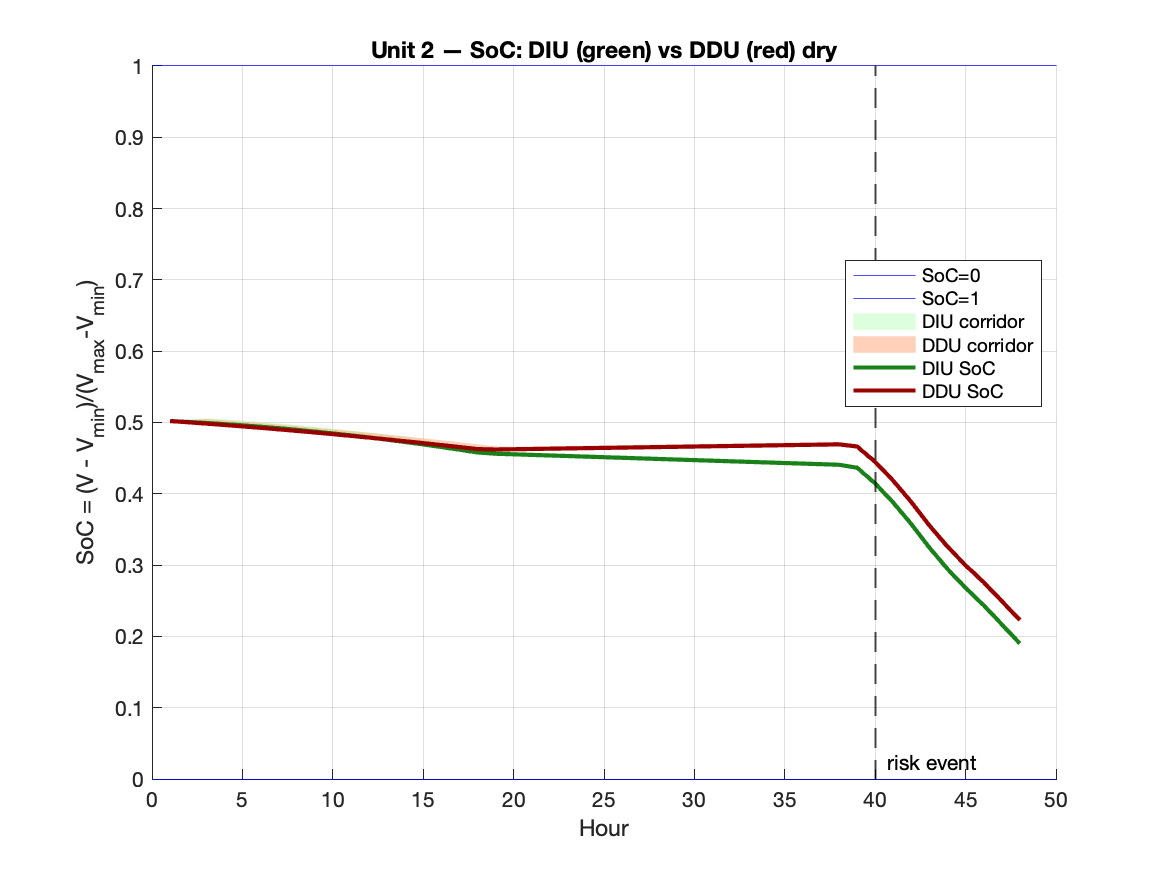
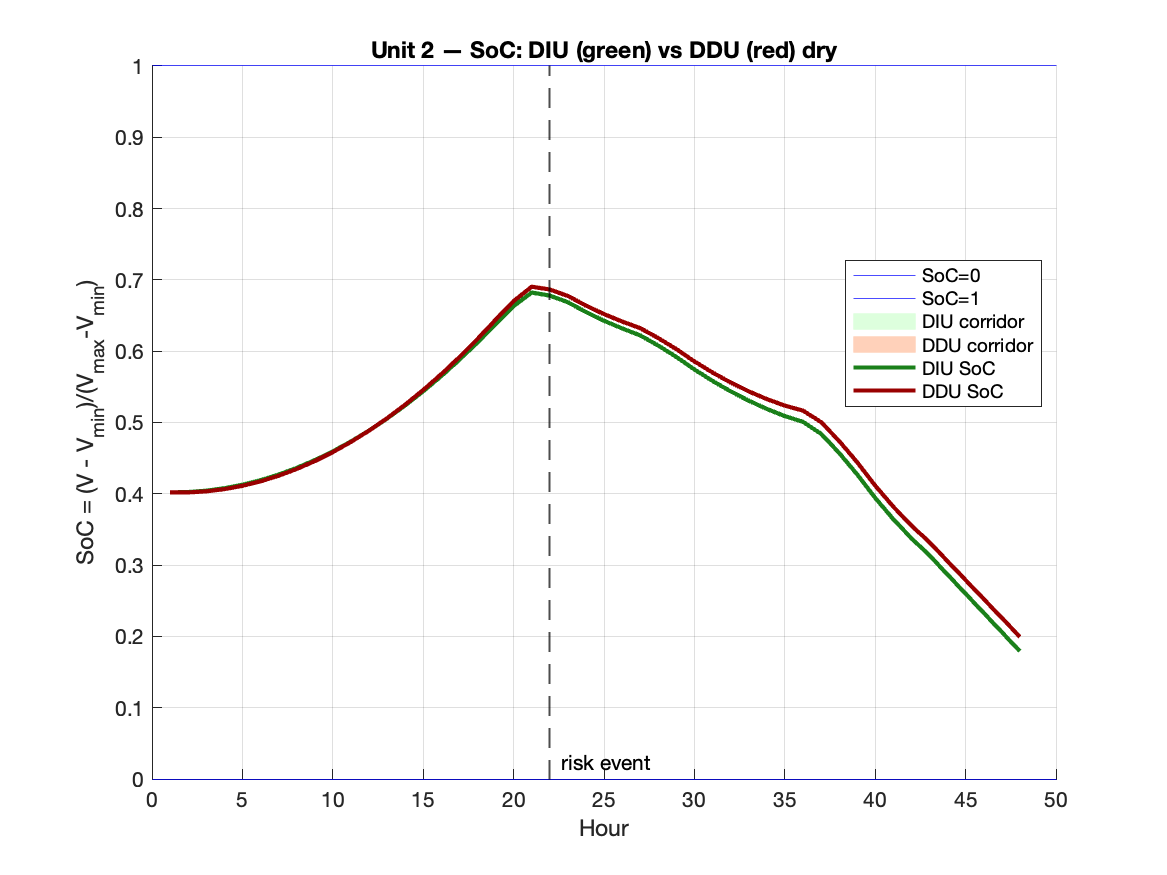
testing

diff --git a/synthetic-sim/simulation.m b/synthetic-sim/simulation.m
@@ -25,7 +25,7 @@ N = 20;             % number of sub-intervals for piecewise linear approx
 % ========================================================================
 
 % Initialize settings (season, linear approximation, uncertainty, bounds)
-simSettings = initSimSettings("dry", "pwl", "diu", "icc");
+simSettings = initSimSettings("dry", "pwl", "diu", "jcc-bon");
 
 % Extract forecasting coefficients 
 modelparams = modelparams(strcmp({modelparams.season}, simSettings.season));
@@ -49,8 +49,7 @@ inflow_s = inflow(inflow.datetime >= start_date & inflow.datetime <= end_date, :
 % q = [parabola_decay(inflow_s.bon_inflow_m3hr(1), T)]';
 
 q0 = inflow_s.bon_inflow_m3hr(1);      % your baseline level
-t0   = round(0.5*T) + lag;               % center pulse mid-horizon
-q = makeInflowPulse(q0, T, lag, 0.35, 0.6, 0.4, 2, 2);
+q = makeInflowPulse(q0, T, lag, [0.2 0.6], 0.20, 0.80, 2, 2);
 
 fprintf('Data loading complete.\n');
 
@@ -112,21 +111,21 @@ if simSettings.bounds == "jcc-ssh"
 end 
 
 
-function q = makeInflowPulse(q0, T, lag, t0, amp_up, amp_dn, w_up, w_dn)
-% makeInflowPulse  Create an upstream inflow pulse (q1) mid-horizon.
-% q0      : scalar baseline (m^3/hr) OR vector of length T+lag
-% T, lag  : horizon length and model lag (q must be length T+lag)
-% t0      : pulse location. If t0<1, interpreted as fraction of horizon (0..1);
-%           otherwise treated as absolute index in 1..T+lag.
-% amp_up  : fractional bump during expansion (e.g., 0.6 => +60%)
-% amp_dn  : fractional dip during contraction (e.g., 0.4 => −40%)
-% w_up    : width (hours) of expansion segment
-% w_dn    : width (hours) of contraction segment (immediately after)
+function q = makeInflowPulse(q0, T, lag, t0, amp1, amp2, w1, w2)
+% makeInflowPulse  Two positive pulses in q1 at arbitrary positions.
+% q0   : scalar baseline (m^3/hr) OR vector of length T+lag
+% T,lag: horizon & lag (output length = T+lag)
+% t0   : pulse positions:
+%        - if scalar <1: one pulse at fraction t0 of horizon
+%        - if scalar >=1: one pulse at absolute index
+%        - if 2-vector: two pulses; each entry may be fraction (<1) or index
+% amp1 : fractional bump for pulse #1 (e.g., 0.2 => +20%)
+% amp2 : fractional bump for pulse #2 (e.g., 0.8 => +80%)
+% w1,w2: widths (hours) for pulses #1 and #2
 %
-% Returns:
-%   q     : vector length T+lag with the pulse applied (nonnegative)
+% Returns: q (T+lag x 1) nonnegative
 
-    % Baseline
+    % --- Baseline ---
     if isscalar(q0)
         q = q0 * ones(T+lag,1);
     else
@@ -134,34 +133,33 @@ function q = makeInflowPulse(q0, T, lag, t0, amp_up, amp_dn, w_up, w_dn)
         q = q0(:);
     end
 
-    % --- Interpret t0 ---
-    if t0 < 1                   % allow fractional placement in [0,1]
-        t0 = lag + round(t0 * T);
-    end
-    t0   = max(1, min(T+lag, round(t0)));
-    w_up = max(0, round(w_up));
-    w_dn = max(0, round(w_dn));
+    % --- Normalize positions to absolute indices in 1..T+lag ---
+    if nargin < 4 || isempty(t0), t0 = [0.2 0.8]; end     % default 20% and 80%
+    t0 = t0(:)';                                           % row
+    if numel(t0) == 1, t0 = [t0]; end
 
-    % Expansion (centered at t0)
-    if w_up > 0
-        half = floor((w_up-1)/2);
-        i_up_start = max(1, t0 - half);
-        i_up_end   = min(T+lag, i_up_start + w_up - 1);
-        q(i_up_start:i_up_end) = q(i_up_start:i_up_end) .* (1 + amp_up);
-        last_up = i_up_end;
-    else
-        last_up = t0;
-    end
+    toIndex = @(x) ( x < 1 ) .* (lag + round(x*T)) + ( x >= 1 ) .* round(x);
+    t_idx = arrayfun(@(x) max(1, min(T+lag, toIndex(x))), t0);
 
-    % Contraction (right after expansion)
-    if w_dn > 0
-        i_dn_start = min(T+lag, last_up + 1);
-        i_dn_end   = min(T+lag, i_dn_start + w_dn - 1);
-        if i_dn_end >= i_dn_start
-            q(i_dn_start:i_dn_end) = q(i_dn_start:i_dn_end) .* (1 - amp_dn);
-        end
+    % --- Widths (allow 0 => no pulse) ---
+    w1 = max(0, round(w1));  w2 = max(0, round(w2));
+    amp1 = max(0, amp1);     amp2 = max(0, amp2);
+
+    % --- Helper: apply one centered box pulse (multiplicative) ---
+    function applyPulse(center_idx, width, amp)
+        if width <= 0 || amp <= 0, return; end
+        half = floor((width-1)/2);
+        i_start = max(1, center_idx - half);
+        i_end   = min(T+lag, i_start + width - 1);
+        q(i_start:i_end) = q(i_start:i_end) .* (1 + amp);
     end
 
-    % Nonnegative safeguard
+    % Pulse #1 at t_idx(1), Pulse #2 at t_idx(2) if present
+    applyPulse(t_idx(1), w1, amp1);
+    if numel(t_idx) >= 2
+        applyPulse(t_idx(2), w2, amp2);
+    end
+
+    % --- Nonnegative safeguard ---
     q = max(q, 0);
 end

diff --git a/synthetic-sim/dataload.m b/synthetic-sim/dataload.m
@@ -64,7 +64,7 @@ function [inflow, params, sysparams] = dataload(N)
         'AR_resid_std', 0.3188, ...
         'omega', 0.179, ... % GARCH-X params
         'alpha', 0.796, ...
-        'gamma', 0.0404, ...
+        'gamma', 3*0.0404, ...
         'error_mean', 0.21, ...
         'error_std', 0.11);
 
@@ -82,7 +82,7 @@ function [inflow, params, sysparams] = dataload(N)
         'RR_dn', -642225, ...
         'RR_up', 611643, ...
         'F', 1154, ...
-        'SOC', 0.5);
+        'SOC', 0);
 
     % Unit 2: Bonneville copy
     sysparams(2) = struct( ...
@@ -95,10 +95,10 @@ function [inflow, params, sysparams] = dataload(N)
         'max_h', 23.468, ...
         'min_V', 7.72e8, ...
         'max_V', 9.56e8, ...
-        'RR_dn', -642225, ...
-        'RR_up', 611643, ...
+        'RR_dn', 0.5*-642225, ...
+        'RR_up', 0.5*611643, ...
         'F', 1154, ...
-        'SOC', 0.5);
+        'SOC', 0.4);
 
 
     %% Compute Piecewise Linear Approximation

diff --git a/synthetic-sim/optimization.m b/synthetic-sim/optimization.m
@@ -402,6 +402,7 @@ function [q_hat, std_hat_m3] = forecast_inflow_ddu(q_prev, q_pred_prev, outflow_
     q_hat = rescale_flow(q_hat_norm, params.inflow_mean, params.inflow_std);
 
     % Rescale standard deviation back to inflow units 
-    std_hat_m3 = std_hat*params.inflow_std;
+    params.std_scale_DDU = 1.5;   % (TEMP)
+    std_hat_m3 = params.std_scale_DDU * std_hat * params.inflow_std;
 end
 
